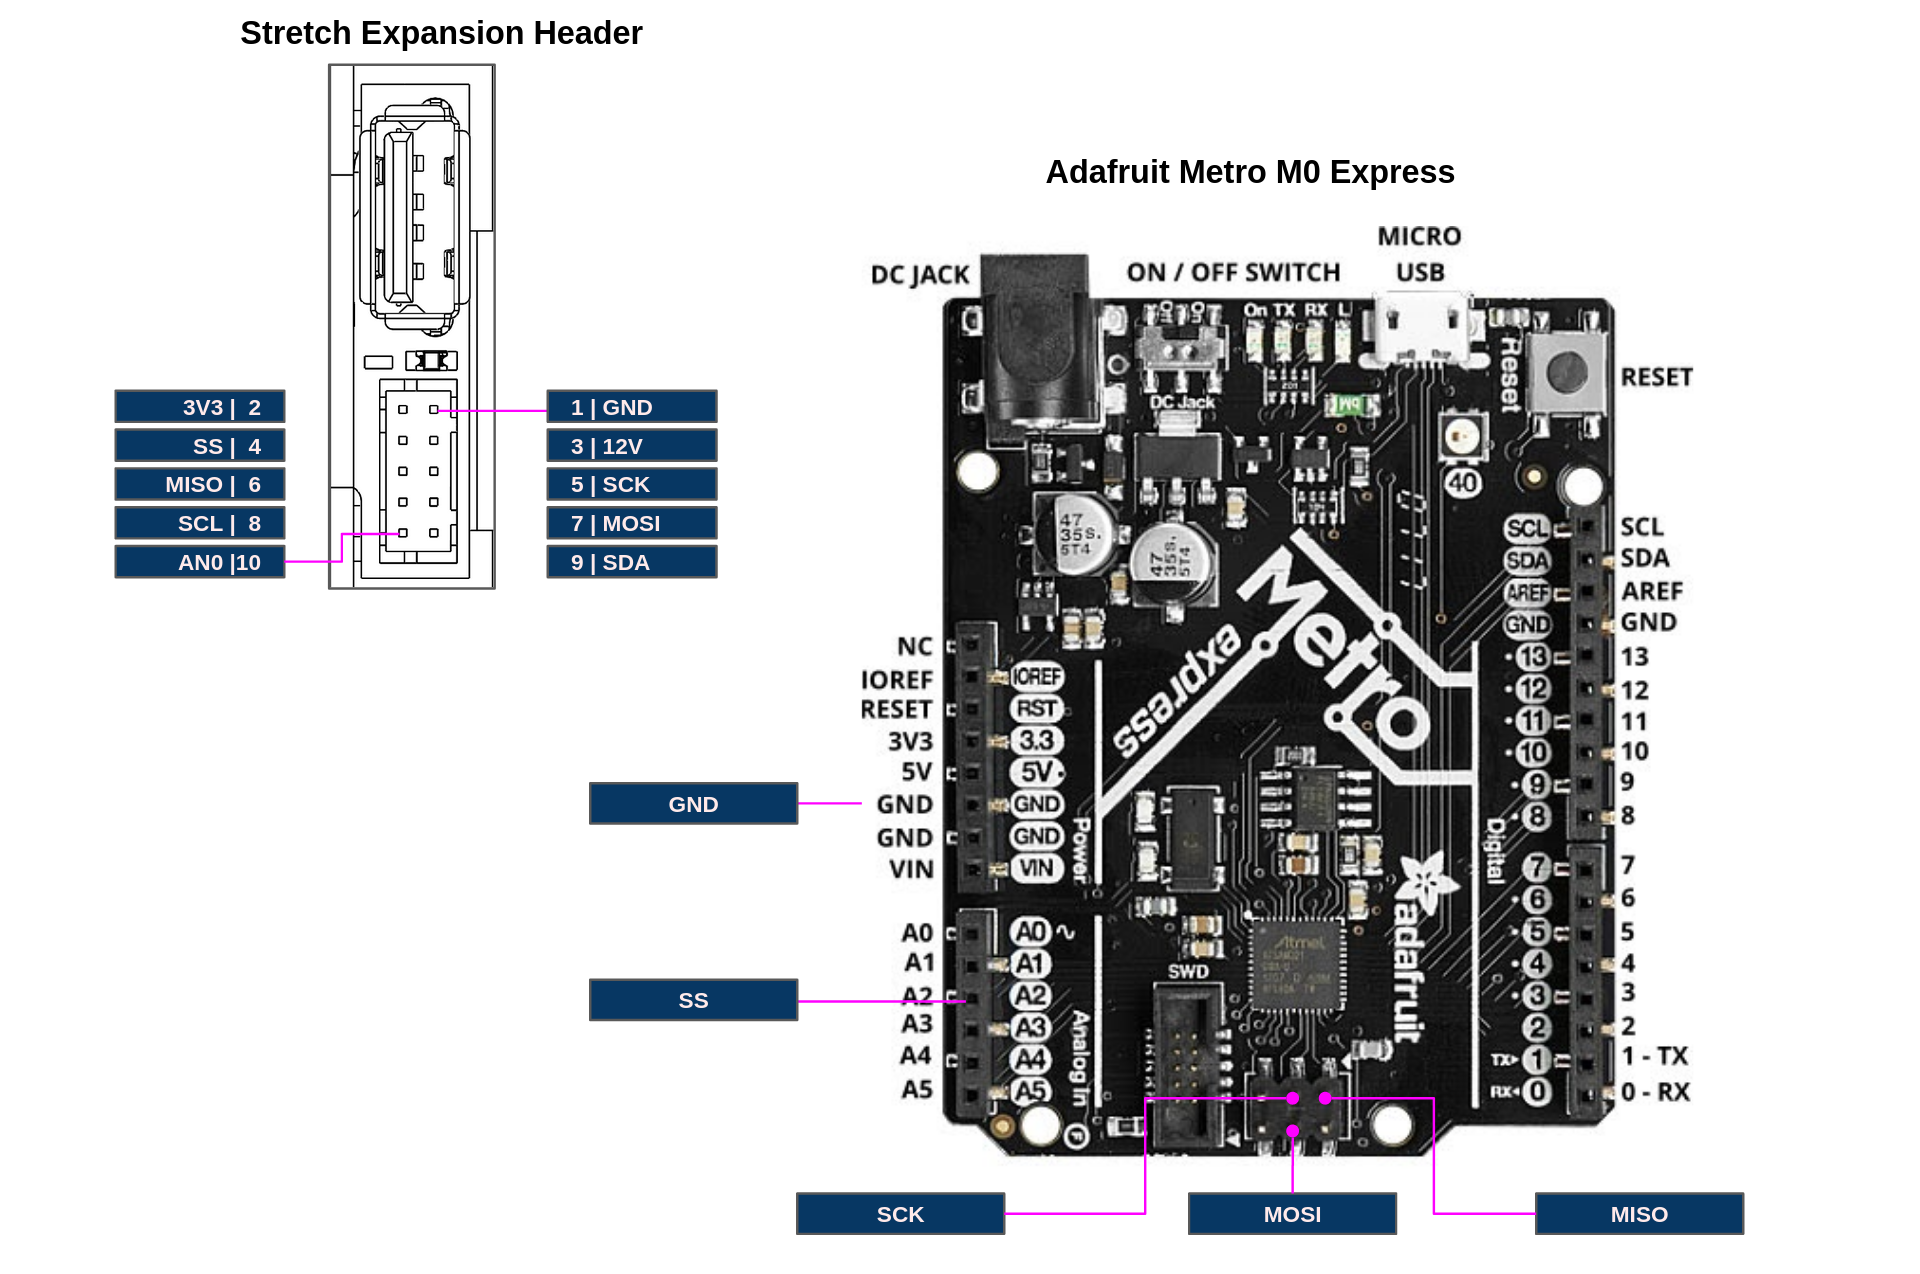
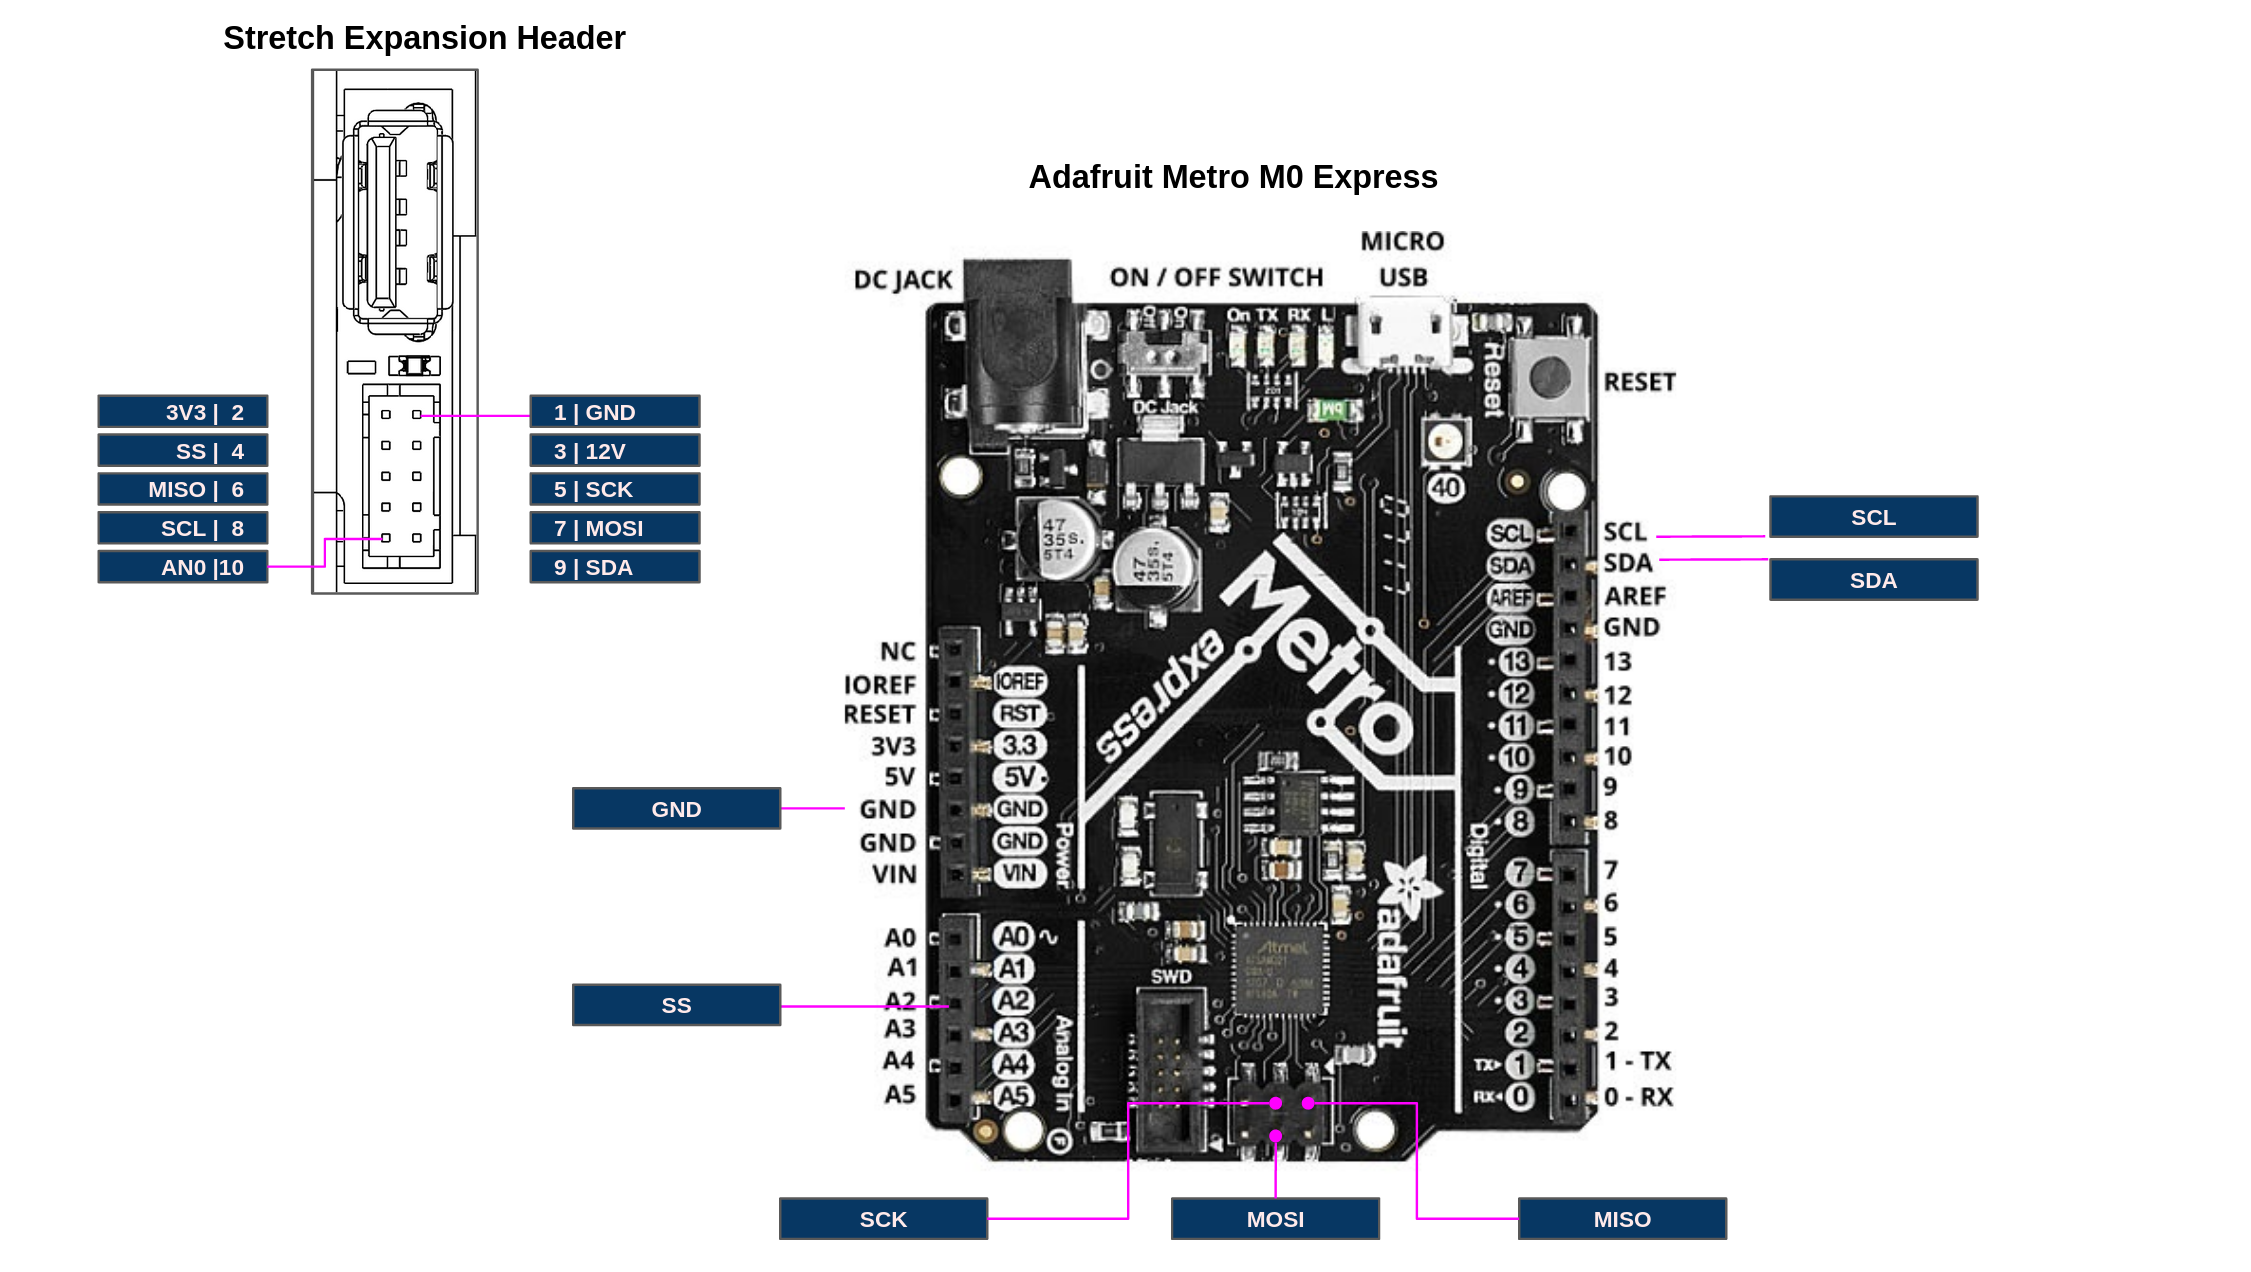
fix images

diff --git a/tutorial/docs/spi_sensor.md b/tutorial/docs/spi_sensor.md
@@ -8,7 +8,7 @@ This tutorial illustrates the integration of a SPI device on to the [Wrist Expan
 
 In this tutorial we will run the calculator from the [Data Transfer](./data_transfer.md) tutorial on an Adafruit Metro M0 Express (Arduino Zero) that is running as an SPI slave. It will take a calculator `Command` from the Wacc and return the result in `Status` message. 
 
-![](../../images/wacc_metro.png)
+![](../../images/wacc_spi.png)
 
 ### Flash Firmware
 
